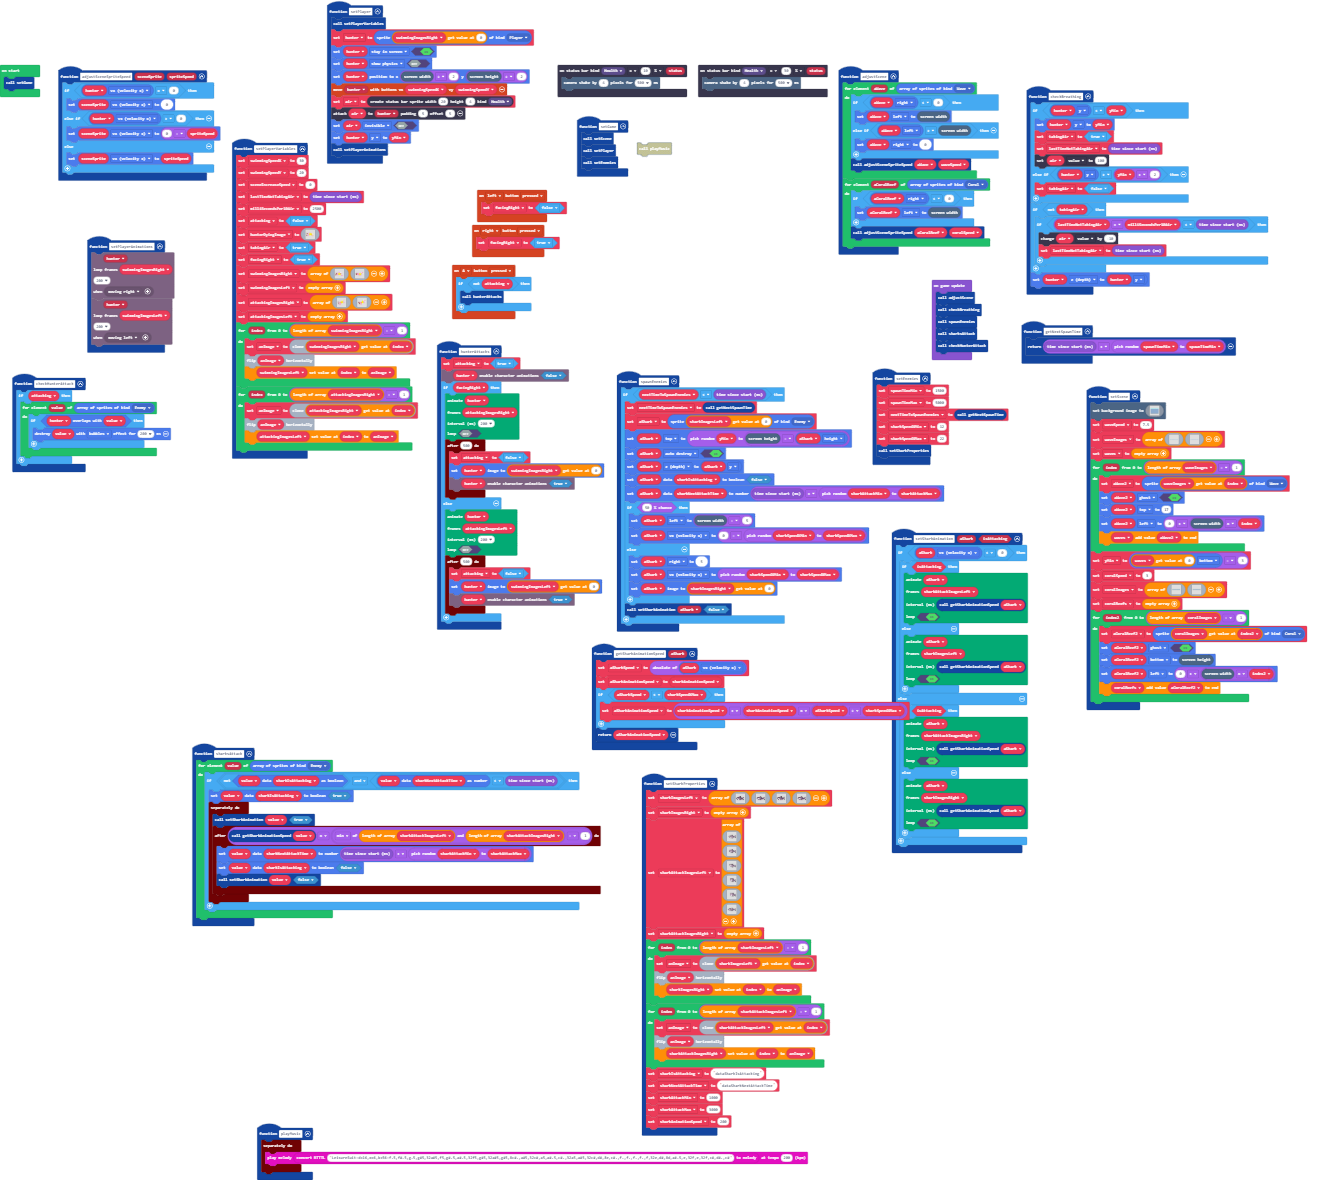
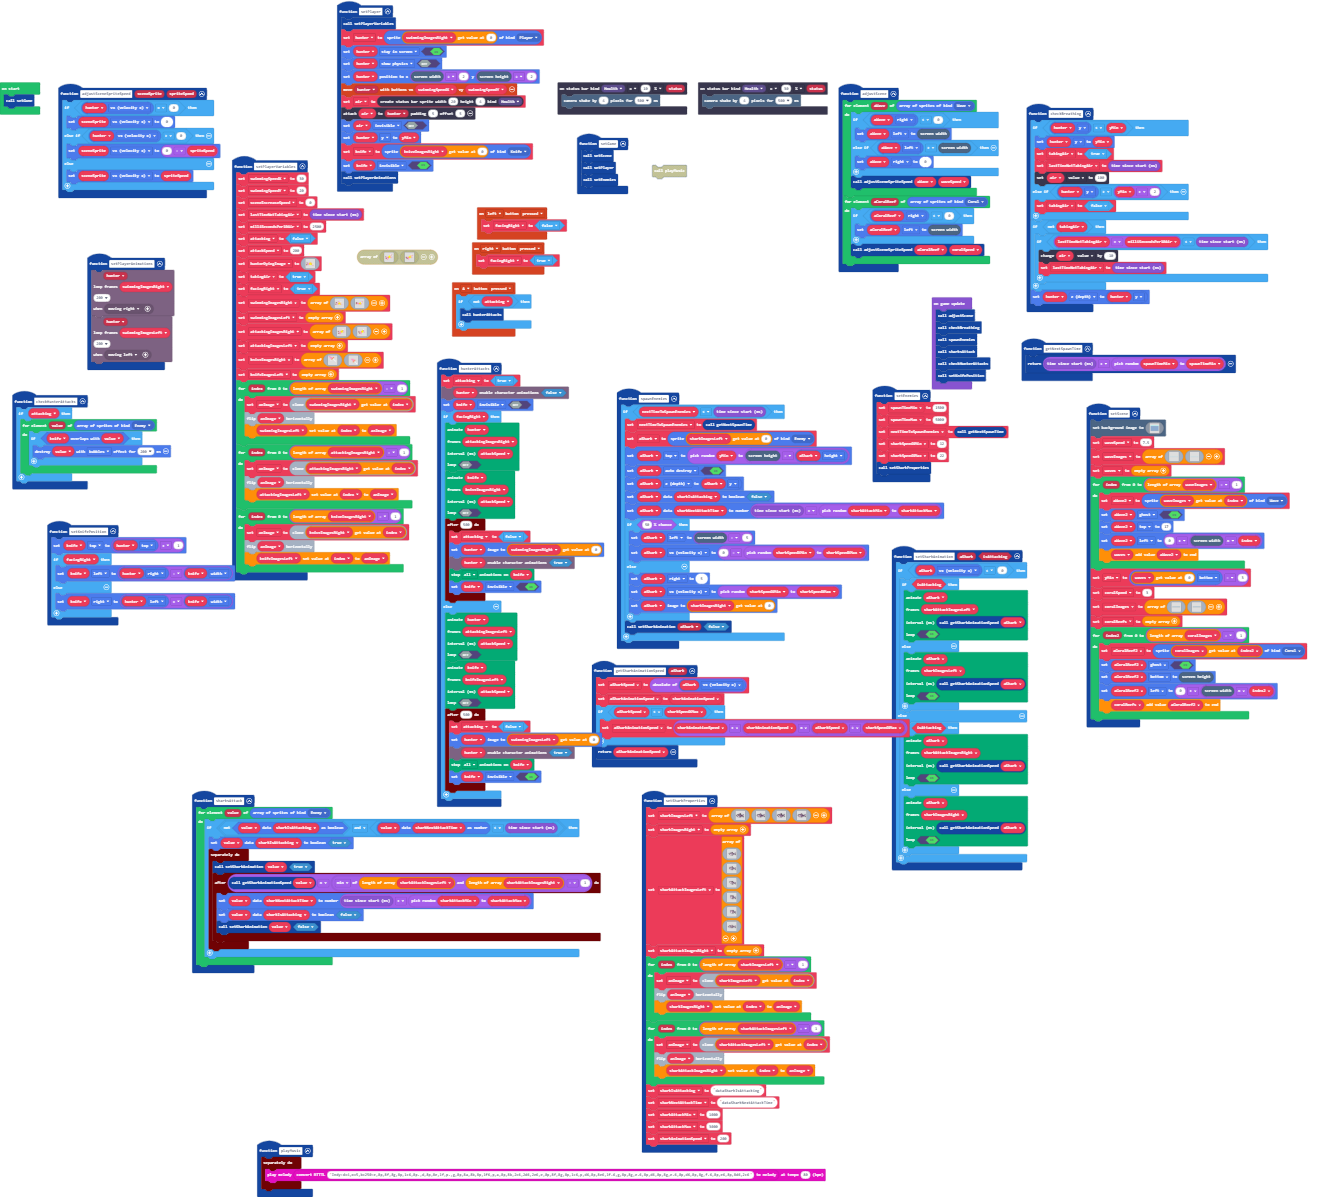
Knife attacks sharks, check shark attacks player

Changed region(s): [[0.0, 0.0, 0.9842, 1.0]]

diff --git a/main.ts b/main.ts
@@ -1,10 +1,11 @@
 namespace SpriteKind {
     export const Wave = SpriteKind.create()
     export const Coral = SpriteKind.create()
+    export const Knife = SpriteKind.create()
 }
 function playMusic () {
     timer.background(function () {
-        music.playMelody(music.convertRTTTLToMelody("LeisureSuit:d=16,o=6,b=56:f.5,f#.5,g.5,g#5,32a#5,f5,g#.5,a#.5,32f5,g#5,32a#5,g#5,8c#.,a#5,32c#,a5,a#.5,c#.,32a5,a#5,32c#,d#,8e,c#.,f.,f.,f.,f.,f,32e,d#,8d,a#.5,e,32f,e,32f,c#,d#.,c#"), 200)
+        music.playMelody(music.convertRTTTLToMelody("Indy:d=4,o=5,b=250:e,8p,8f,8g,8p,1c6,8p.,d,8p,8e,1f,p.,g,8p,8a,8b,8p,1f6,p,a,8p,8b,2c6,2d6,2e6,e,8p,8f,8g,8p,1c6,p,d6,8p,8e6,1f.6,g,8p,8g,e.6,8p,d6,8p,8g,e.6,8p,d6,8p,8g,f.6,8p,e6,8p,8d6,2c6"), 80)
     })
 }
 function setSharkProperties () {
@@ -225,6 +226,8 @@ function setPlayer () {
     air.attachToSprite(hunter, 5, 5)
     air.setFlag(SpriteFlag.Invisible, false)
     hunter.y = yMin
+    knife = sprites.create(kniveImagesRight[0], SpriteKind.Knife)
+    knife.setFlag(SpriteFlag.Invisible, true)
     setPlayerAnimations()
 }
 controller.A.onEvent(ControllerButtonEvent.Pressed, function () {
@@ -281,15 +284,6 @@ function checkBreathing () {
         }
     }
     hunter.z = hunter.y
-}
-function checkHunterAttack () {
-    if (attacking) {
-        for (let value of sprites.allOfKind(SpriteKind.Enemy)) {
-            if (hunter.overlapsWith(value)) {
-                value.destroy(effects.bubbles, 200)
-            }
-        }
-    }
 }
 controller.right.onEvent(ControllerButtonEvent.Pressed, function () {
     facingRight = true
@@ -585,32 +579,57 @@ function setPlayerAnimations () {
     character.rule(Predicate.MovingLeft)
     )
 }
+function setKnifePosition () {
+    knife.top = hunter.top + 1
+    if (facingRight) {
+        knife.left = hunter.right - knife.width
+    } else {
+        knife.right = hunter.left + knife.width
+    }
+}
 function hunterAttacks () {
     attacking = true
     character.setCharacterAnimationsEnabled(hunter, false)
+    knife.setFlag(SpriteFlag.Invisible, false)
     if (facingRight) {
         animation.runImageAnimation(
         hunter,
         attackingImagesRight,
-        200,
+        attackSpeed,
+        false
+        )
+        animation.runImageAnimation(
+        knife,
+        kniveImagesRight,
+        attackSpeed,
         false
         )
         timer.after(500, function () {
             attacking = false
             hunter.setImage(swimmingImagesRight[0])
             character.setCharacterAnimationsEnabled(hunter, true)
+            animation.stopAnimation(animation.AnimationTypes.All, knife)
+            knife.setFlag(SpriteFlag.Invisible, true)
         })
     } else {
         animation.runImageAnimation(
         hunter,
         attackingImagesLeft,
-        200,
+        attackSpeed,
+        false
+        )
+        animation.runImageAnimation(
+        knife,
+        knifeImagesLeft,
+        attackSpeed,
         false
         )
         timer.after(500, function () {
             attacking = false
             hunter.setImage(swimmingImagesLeft[0])
             character.setCharacterAnimationsEnabled(hunter, true)
+            animation.stopAnimation(animation.AnimationTypes.All, knife)
+            knife.setFlag(SpriteFlag.Invisible, true)
         })
     }
 }
@@ -629,6 +648,7 @@ function setPlayerVariables () {
     lastTimeNotTakingAir = game.runtime()
     milliSecondsPer10Air = 2500
     attacking = false
+    attackSpeed = 200
     hunterDyingImage = img`
         ................................
         ................................
@@ -711,12 +731,12 @@ function setPlayerVariables () {
     swimmingImagesLeft = []
     attackingImagesRight = [img`
         ................................
-        ......................133.......
-        .....................111333.4...
-        ....................11111334....
-        ..................551111564.1...
-        ..................51111511...1..
-        ..................55ee3e3.....1.
+        ......................1.........
+        .....................111........
+        ....................11111.......
+        ..................5511115.......
+        ..................51111511......
+        ..................55ee3e3.......
         .................55533333.......
         ................55553333........
         ...e.......555.5555533..........
@@ -739,12 +759,12 @@ function setPlayerVariables () {
         ......................1.........
         .....................111........
         ....................11111.......
-        ..................5511115333....
-        ..................511115113334..
-        ..................55ee3e3..34...
-        .................55533333..4.1..
-        ................55553333......1.
-        ...........5...5555533.........1
+        ..................5511115.......
+        ..................51111511......
+        ..................55ee3e3.......
+        .................55533333.......
+        ................55553333........
+        ...........5...5555533..........
         ............5545555553...33.....
         .eeeee...33355455555555...3.....
         ..eeee333334444455555553...3....
@@ -761,6 +781,28 @@ function setPlayerVariables () {
         ................................
         `]
     attackingImagesLeft = []
+    kniveImagesRight = [img`
+        3 3 . . . . . . . 
+        . 3 3 3 . 4 . . . 
+        . . 3 3 4 . . . . 
+        . . . 4 . 1 . . . 
+        . . 1 . . . 1 . . 
+        . . . . . . . 1 . 
+        . . . . . . . . . 
+        . . . . . . . . . 
+        . . . . . . . . . 
+        `, img`
+        . . . . . . . . . 
+        . . . . . . . . . 
+        . . . . . . . . . 
+        . . 3 3 3 . . . . 
+        . . . 3 3 3 4 . . 
+        . . . . 3 4 . . . 
+        . . . . 4 . 1 . . 
+        . . . . . . . 1 . 
+        . . . . . . . . 1 
+        `]
+    knifeImagesLeft = []
     for (let index = 0; index <= swimmingImagesRight.length - 1; index++) {
         anImage = swimmingImagesRight[index].clone()
         anImage.flipX()
@@ -771,10 +813,26 @@ function setPlayerVariables () {
         anImage.flipX()
         attackingImagesLeft[index] = anImage
     }
+    for (let index = 0; index <= kniveImagesRight.length - 1; index++) {
+        anImage = kniveImagesRight[index].clone()
+        anImage.flipX()
+        knifeImagesLeft[index] = anImage
+    }
+}
+function checkHunterAttacks () {
+    if (attacking) {
+        for (let value of sprites.allOfKind(SpriteKind.Enemy)) {
+            if (knife.overlapsWith(value)) {
+                value.destroy(effects.bubbles, 200)
+            }
+        }
+    }
 }
 let hunterDyingImage: Image = null
 let sceneIncreaseSpeed = 0
+let knifeImagesLeft: Image[] = []
 let attackingImagesLeft: Image[] = []
+let attackSpeed = 0
 let attackingImagesRight: Image[] = []
 let swimmingImagesLeft: Image[] = []
 let spawnTimeMax = 0
@@ -798,6 +856,8 @@ let sharkSpeedXMax = 0
 let aSharkAnimationSpeed = 0
 let aSharkSpeed = 0
 let attacking = false
+let kniveImagesRight: Image[] = []
+let knife: Sprite = null
 let yMin = 0
 let air: StatusBarSprite = null
 let swimmingSpeedY = 0
@@ -820,5 +880,6 @@ game.onUpdate(function () {
     checkBreathing()
     spawnEnemies()
     sharksAttack()
-    checkHunterAttack()
+    checkHunterAttacks()
+    setKnifePosition()
 })
